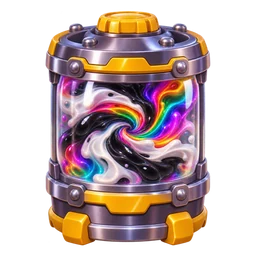
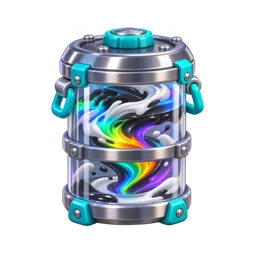
OctoSmash: contenitori nuovi della stessa famiglia; istruzioni per le ultime grafiche
Claude-Session: https://claude.ai/code/session_01Sp9suYVdKRZstTjztCU4X9

diff --git a/Stefano/SMASHCROP-idee/octosmash-grafiche/11_ultime_grafiche.md b/Stefano/SMASHCROP-idee/octosmash-grafiche/11_ultime_grafiche.md
@@ -1,0 +1,83 @@
+ISTRUZIONI PER CHATGPT — leggi tutto prima di iniziare
+
+Nello zip, nella cartella "riferimenti", trovi:
+- "OctoSmash_Bianco": le 18 immagini di OctoSmash Bianco;
+- "OctoSmash_Imperatore": le 18 immagini di OctoSmash Imperatore;
+- "teste_e_pose": teste e pose degli altri OctoSmash (Nero, Pipetta, Multicolor, Fusione, Stampa,
+  Abisso, Diluvio, Imperatore).
+Sono robot-polpo della stessa famiglia, stile 3D lucido da cartone.
+
+Devi creare le ultime grafiche che mancano. LAVORA PER PUNTI, uno alla volta:
+
+  PUNTO 1 — Testa e posa di OctoSmash Bianco
+  PUNTO 2 — Imperatore: rifare le immagini 15 e 16
+  PUNTO 3 — Effetti speciali delle 5 evoluzioni
+  PUNTO 4 — Foto di gruppo "La Squadra"
+  PUNTO 5 — Illustrazione per il popup "Novità"
+
+Come procedere:
+- Fai UN punto alla volta. A fine punto consegnami UNO ZIP con i file del punto, coi nomi indicati.
+- Poi fermati e aspetta che ti scriva "avanti".
+- Tutte le immagini: PNG con sfondo trasparente (salvo dove indicato), stile 3D lucido da cartone,
+  per tutte le età, niente marchi, niente scritte se non indicate.
+
+Inizia subito dal PUNTO 1.
+
+==========================================================================================
+
+## PUNTO 1 — Testa e posa di OctoSmash Bianco
+
+Uguali per stile, misure e inquadratura alle teste e pose degli altri in "teste_e_pose":
+- **testa**: solo il casco bianco lucido con visore nero e occhi ciano, 256×256, ben centrata;
+- **testa che dorme**: la stessa con gli occhi chiusi a mezzaluna;
+- **posa da eroe**: OctoSmash Bianco intero (com'è nelle sue 18 immagini), fermo e fiero, 730×470.
+
+File: `octosmash_bianco_testa.png`, `octosmash_bianco_testa_dorme.png`, `octosmash_bianco_posa.png`
+
+## PUNTO 2 — Imperatore: rifare le immagini 15 e 16
+
+Nelle immagini 15 e 16 di OctoSmash Imperatore deve esserci la **posa finale ferma e regale**:
+testa dritta, tentacoli larghi e fieri, **nessuna scia di movimento, nessuna pozza d'inchiostro**.
+Le due immagini quasi uguali tra loro (solo un piccolo movimento, per esempio un tentacolo che
+saluta).
+
+Regole come le altre 18 immagini: 730×470, PNG trasparente, stessa grandezza del personaggio, le
+punte dei tentacoli a terra a y = 340 px, guarda verso destra.
+
+File: `octosmash_imperatore_15.png`, `octosmash_imperatore_16.png`
+
+## PUNTO 3 — Effetti speciali delle 5 evoluzioni
+
+Per ognuna delle 5 evoluzioni, **6 piccoli elementi 128×128** (PNG trasparente) che l'app fa volare
+intorno quando il personaggio spruzza. **Niente magenta in questi elementi.**
+
+- **Fusione:** 6 scintille e stelline nei colori della squadra (bianco, nero lucido, vetro
+  trasparente, iridescente).
+- **Stampa:** 2 foglietti di carta che volano, 2 puntini di stampa ciano, 1 cartuccia vuota che
+  salta via, 1 ingranaggio piccolo.
+- **Abisso:** 3 bollicine trasparenti, 2 lucine bioluminescenti ciano, 1 pesciolino stilizzato
+  luminoso.
+- **Diluvio:** 2 sbuffi di vapore, 2 spruzzi d'acqua blu, 1 bullone, 1 piccola onda.
+- **Imperatore:** 2 scintille d'oro, 2 monetine d'oro, 1 piccola corona, 1 pennino d'oro.
+
+File: `effetto_<evoluzione>_1.png` … `_6.png`
+(evoluzione = fusione, stampa, abisso, diluvio, imperatore)
+
+## PUNTO 4 — Foto di gruppo "La Squadra"
+
+I 4 OctoSmash di base insieme, in posa da squadra di supereroi: **Bianco, Nero, Pipetta e
+Multicolor**, uno accanto all'altro, fieri e simpatici, tentacoli intrecciati o pollici in su.
+- 730×470, PNG trasparente, tutti e 4 della stessa grandezza e ben visibili.
+
+File: `octosmash_squadra_posa.png`
+
+## PUNTO 5 — Illustrazione per il popup "Novità"
+
+Annuncia la nuova funzione: OctoSmash copre una parte del foglio spruzzando inchiostro.
+- 1024×1024, **con sfondo** scuro (#0A0B10) e luci colorate;
+- al centro i 4 OctoSmash di base che spruzzano insieme su un foglio di carta stilizzato (un
+  rettangolo bianco con righe grigie finte, nessun testo leggibile); sul foglio si vedono tre
+  rettangoli coperti: uno d'inchiostro nero, uno bianco e uno colorato;
+- nessuna scritta.
+
+File: `octosmash_novita.png`
